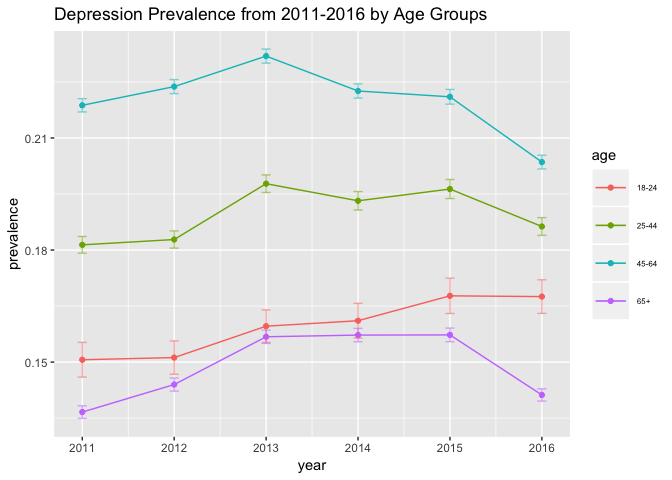
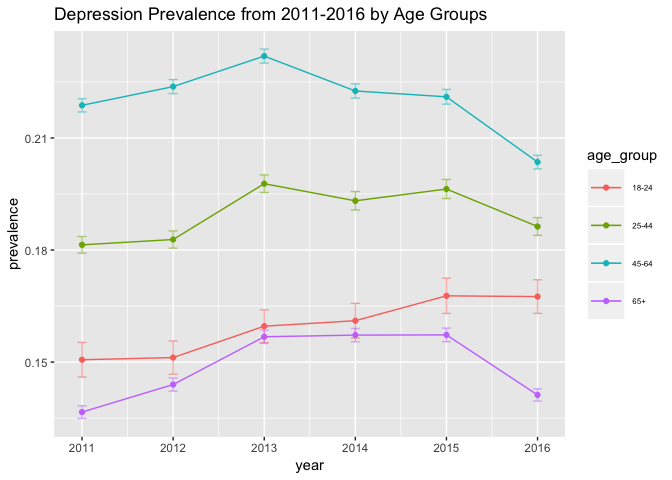
Exploratory analysis. Some discussion.

diff --git a/p8105_fp_ds100_Report.md b/p8105_fp_ds100_Report.md
@@ -42,10 +42,6 @@ library(tidyverse)
 data_BRFSS = 
   read_csv(file='./data/Behavioral_Risk_Factor_Surveillance_System__BRFSS__Prevalence_Data__2011_to_present_.csv')
 
-data_BRFSS %>% 
-  select(., Question) %>%
-  distinct(.,)
-
 brfss_data = brfss_raw %>% 
    filter(year %in% c(2011, 2012, 2013, 2014, 2015, 2016),
           break_out_category %in% c("Age Group", "Race/Ethnicity", "Gender")) %>% 
@@ -61,6 +57,37 @@ Exploratory analysis:
 =====================
 
 Visualizations, summaries, and exploratory statistical analyses. Justify the steps you took, and show any major changes to your ideas.
+
+``` r
+library(tidyverse)
+library(plotly)
+library(patchwork)
+data_BRFSS = 
+  read_csv(file = './data/brfss_data.csv')
+data_IM = 
+  read_csv(file = './data/NCHS_-_Injury_Mortality__United_States.csv')
+```
+
+Creat a new data from the original data just for this section, so that it won't affect other part of the analysis: For BRFSS dataset, select some variables that might be usful for later analysis:
+
+``` r
+data_BRFSS_JZ = data_BRFSS %>% 
+  janitor::clean_names(.) %>% 
+  select(., year, locationabbr, locationdesc, response, sample_size, age_group, gender, race_ethnicity)
+```
+
+For the Injury Mortality dataset, filter out 'Suicide' as our focus. Get rid of summarized rows for age, sex and race. Since the cases and total population do not differ by 'injury\_mechanism', here I use 'All Mechanisms' to prevend over counting for the population.
+
+``` r
+data_IM_JZ = data_IM %>% 
+  janitor::clean_names(.) %>% 
+  filter(., injury_intent == 'Suicide',
+    year == 2011 | year == 2012 | year == 2013 | year == 2014 | year == 2015 | year == 2016,
+    sex != 'Both sexes',
+    age_group_years != 'All Ages',
+    race != 'All races',
+    injury_mechanism == 'All Mechanisms')
+```
 
 Additional analysis:
 ====================
